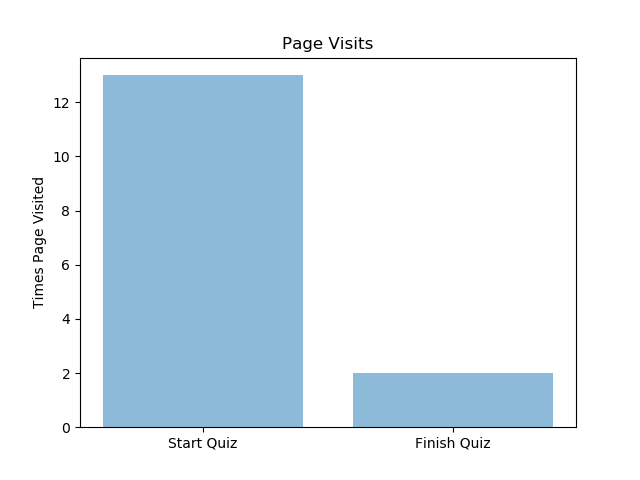
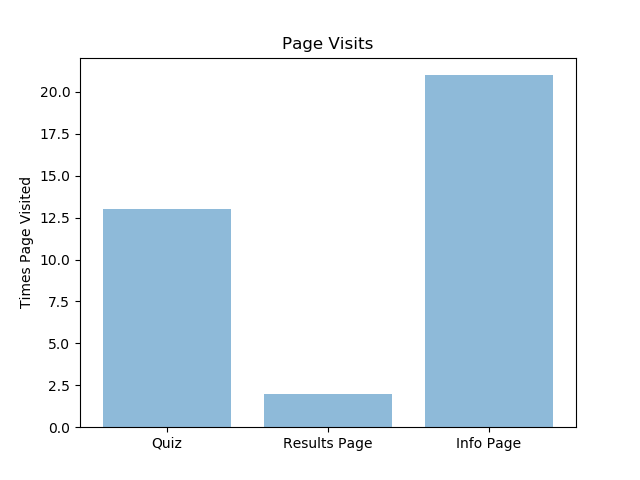
Bar chart now displays info page visits as well

diff --git a/react-quiz/Server/graphManager.py b/react-quiz/Server/graphManager.py
@@ -21,10 +21,15 @@ result = cursor.fetchall() # Store result of this statement
 
 finishQuizAmount = result[0][0] # Assign amount of result page visits to variable
 
+cursor.execute("SELECT COUNT(*) FROM userdata WHERE event = 'Enter Info Page';") # Execute select statement
+result = cursor.fetchall() # Store result of this statement
+
+infoAmount = result[0][0] # Assign amount of result page visits to variable
+
 # Set up bar chart variables
-objects = ('Start Quiz', 'Finish Quiz')
+objects = ('Quiz', 'Results Page', 'Info Page')
 y_pos = np.arange(len(objects))
-performance = [startQuizAmount, finishQuizAmount]
+performance = [startQuizAmount, finishQuizAmount, infoAmount]
  
  # Set up bar chart
 plt.bar(y_pos, performance, align='center', alpha=0.5)
